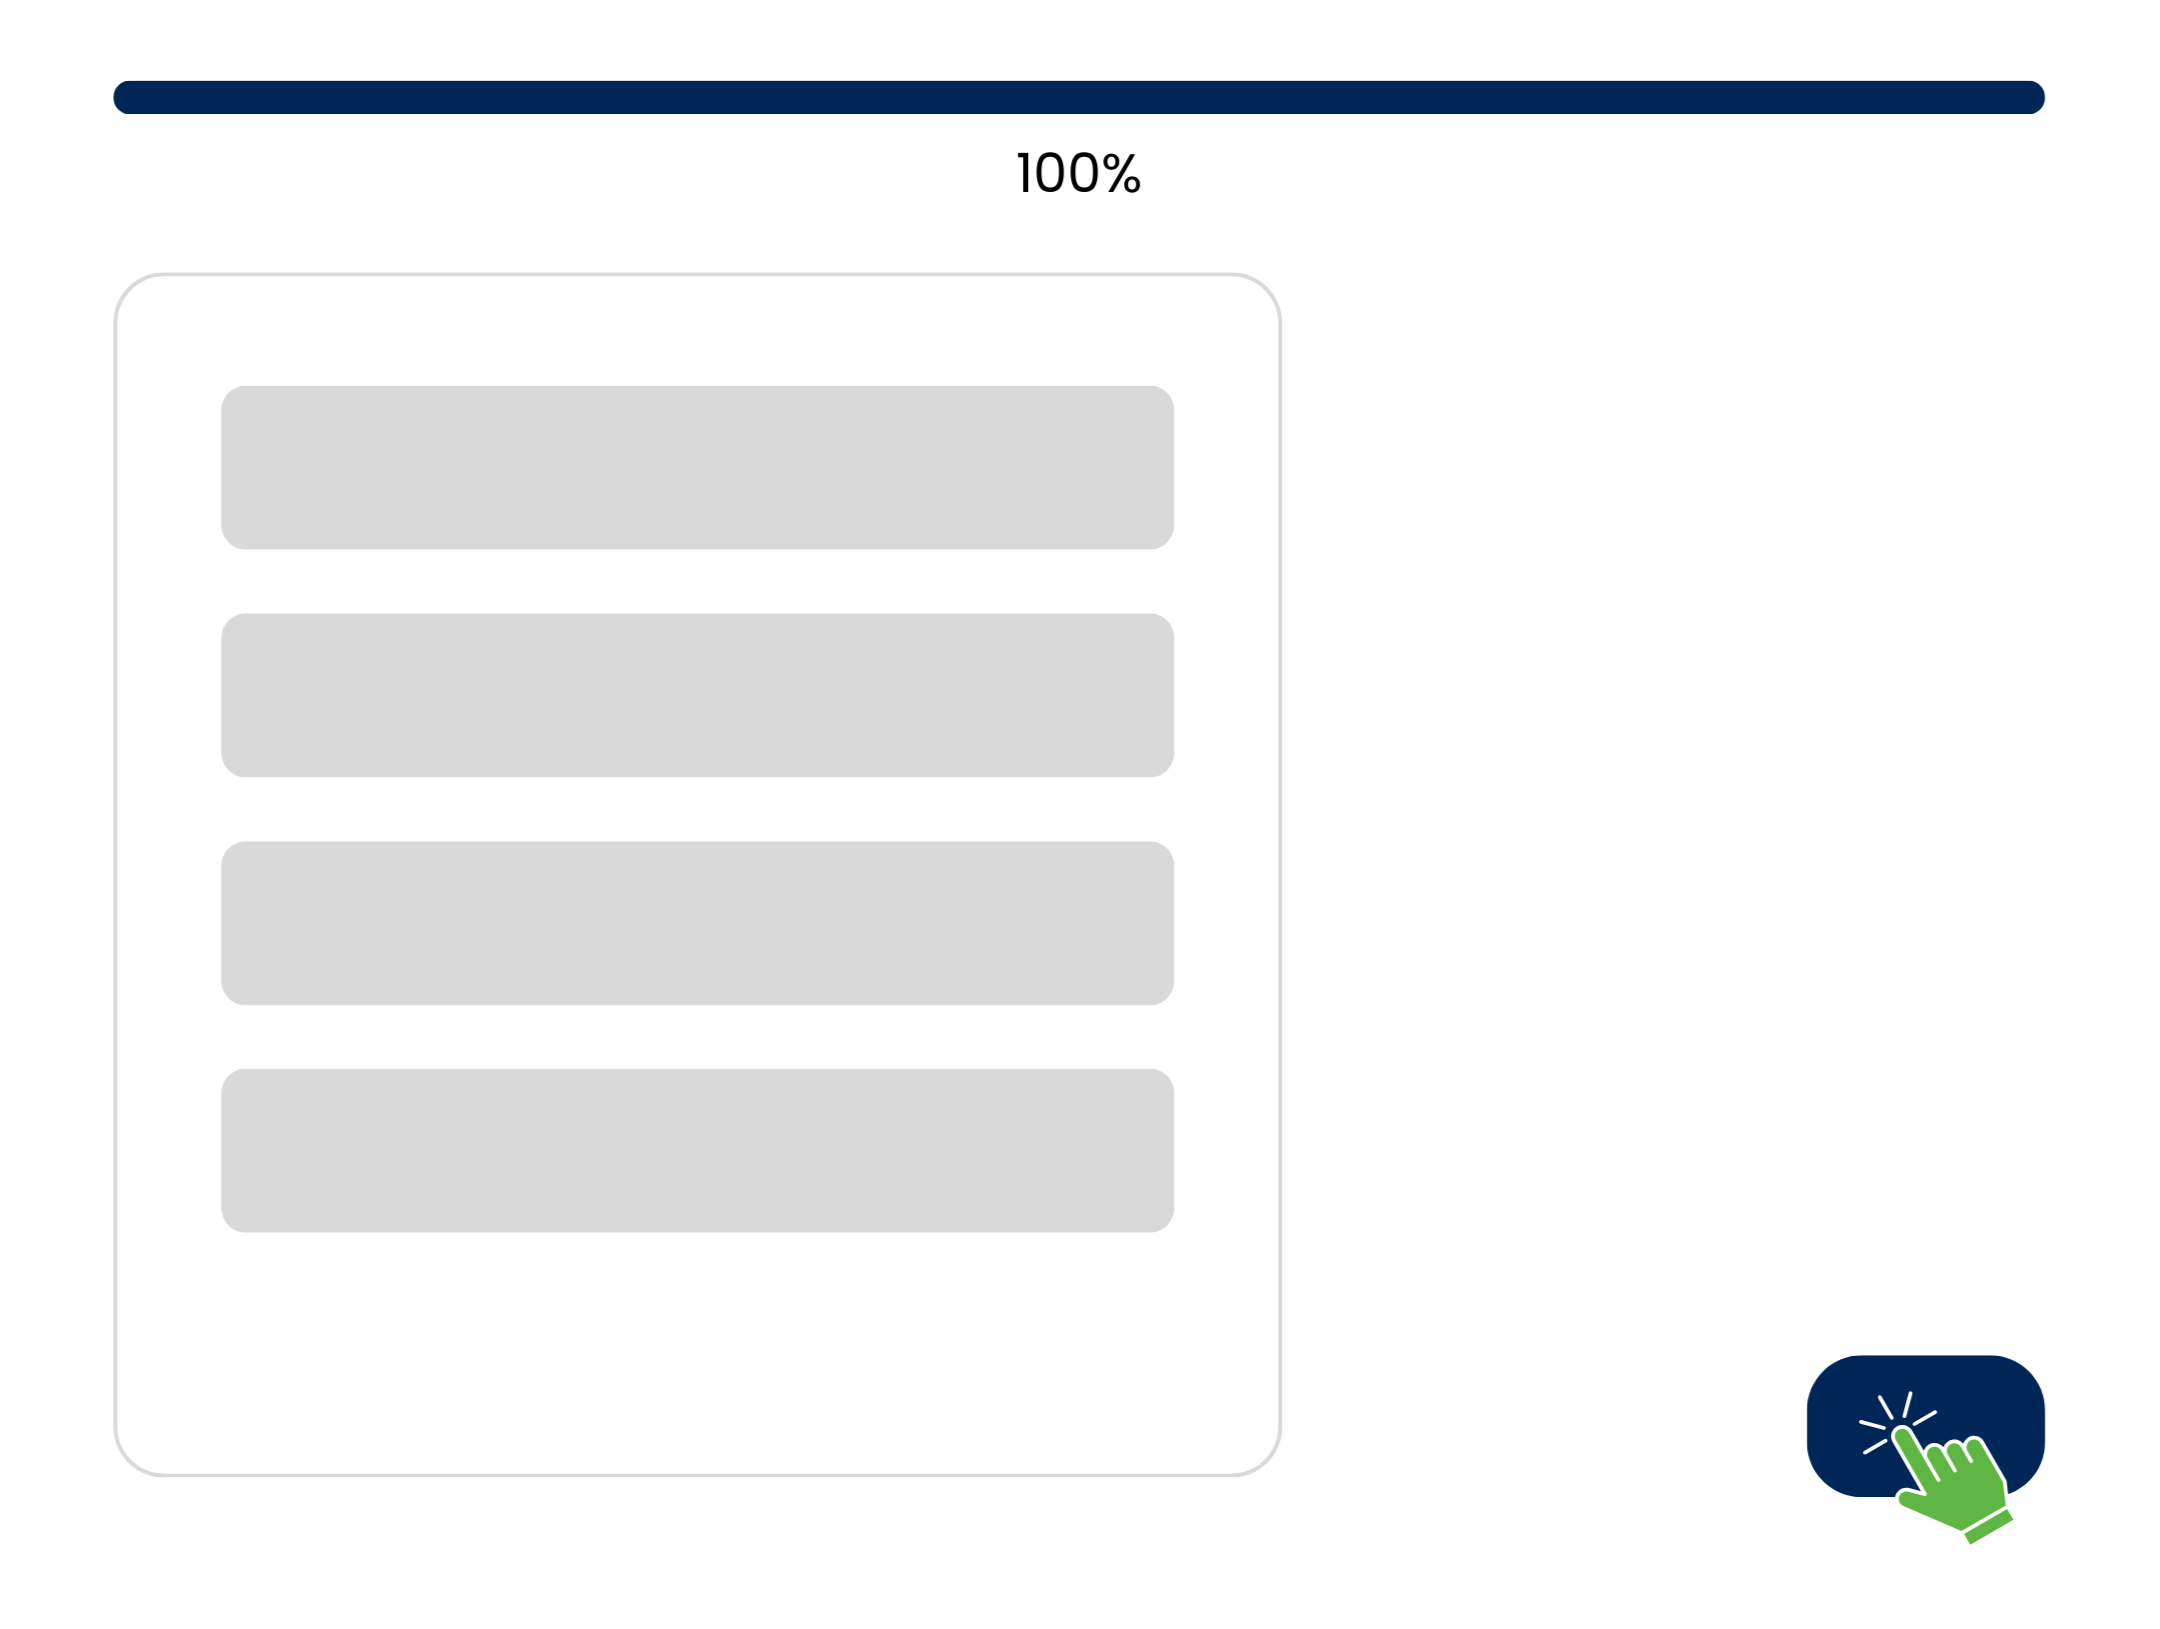
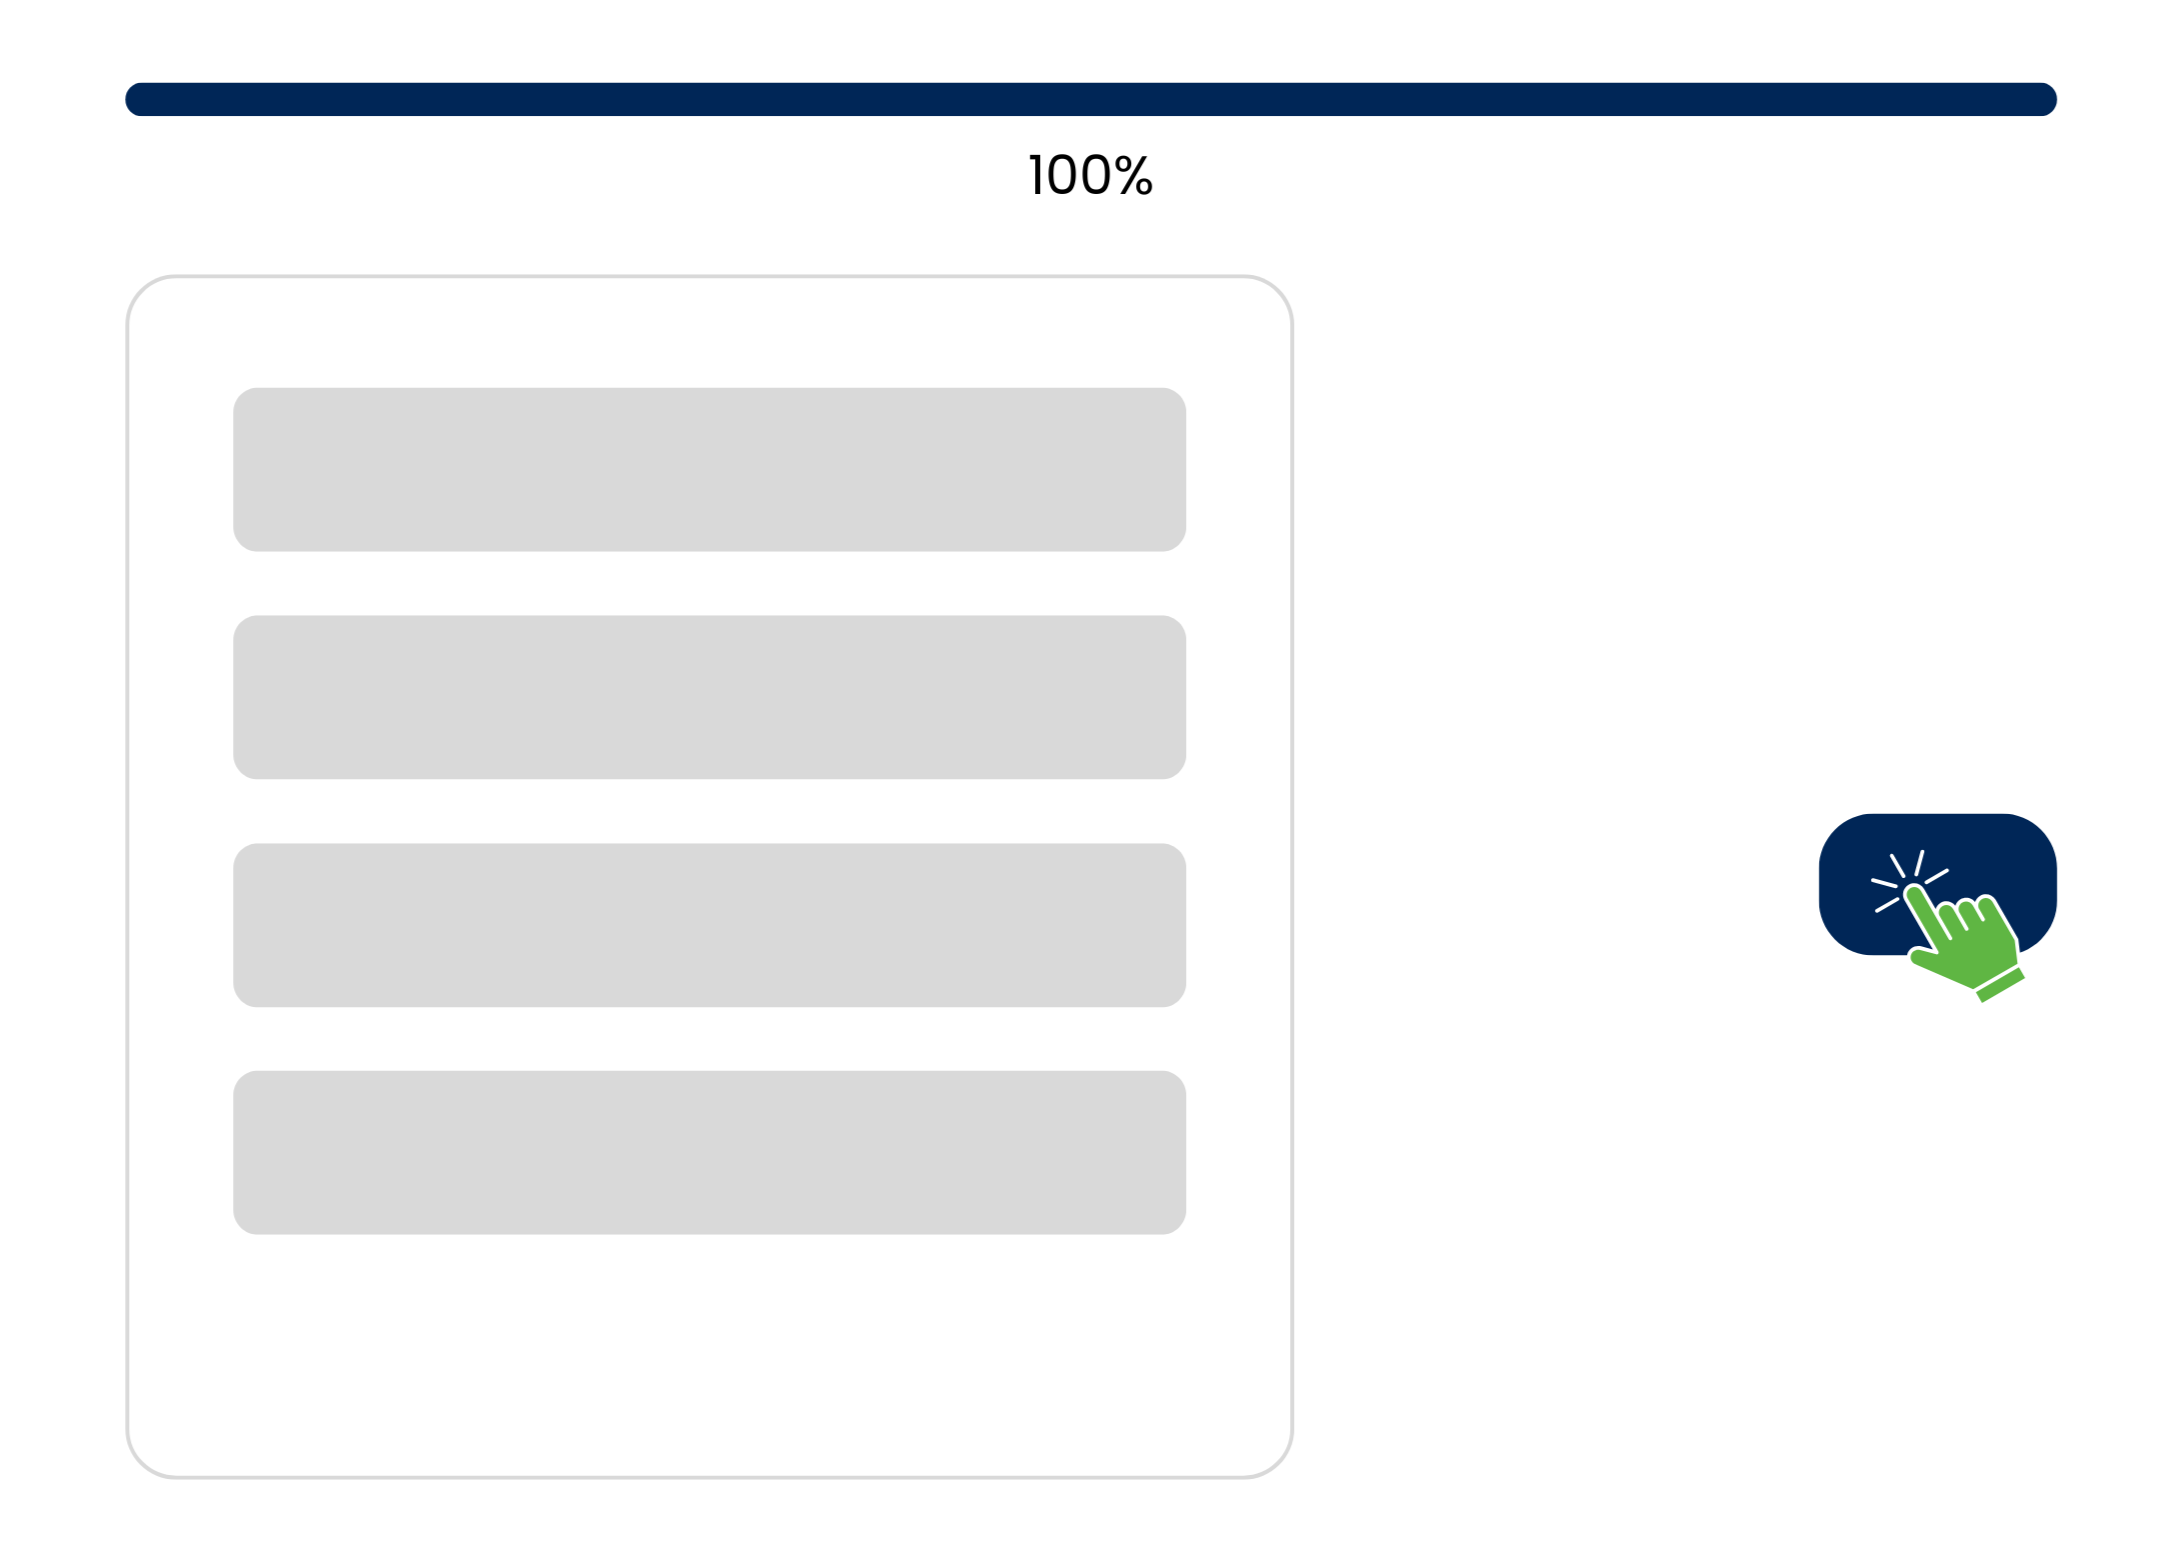
small changes

diff --git a/public/index.html b/public/index.html
@@ -5,7 +5,7 @@
     <meta charset="UTF-8">
     <meta name="viewport" content="width=device-width, initial-scale=1.0">
     <link rel="icon" type="image/x-icon" href="favicon.ico">
-    <title>Learn About Clinical Trials</title>
+    <title>Learn About Clinical Research</title>
     <link rel="preconnect" href="https://fonts.googleapis.com">
     <link rel="preconnect" href="https://fonts.gstatic.com" crossorigin>
     <link href="https://fonts.googleapis.com/css2?family=Lily+Script+One&family=Noto+Sans:ital,wght@0,100..900;1,100..900&family=Poppins:ital,wght@0,100;0,200;0,300;0,400;0,500;0,600;0,700;0,800;0,900;1,100;1,200;1,300;1,400;1,500;1,600;1,700;1,800;1,900&family=Space+Grotesk:wght@300..700&display=swap" rel="stylesheet">
@@ -18,8 +18,8 @@
         <div id="start">
             <span><h1>Alex&nbsp;</h1><h2>| Virtual Health Assistant</h2></span>
             <hr/>
-            <h3>Learn About Clinical Trials</h3>
-            <p id="intro">Welcome! You are about to start chatting with <b>Alex, a Virtual Health Assistant,</b> to learn about clinical trials. Before you begin, you will view some <b>instructions</b> on how to interact with Alex. Click the button below to begin!</p>
+            <h3>Learn About Clinical Research</h3>
+            <p id="intro">Welcome! You are about to start chatting with <b>Alex, a Virtual Health Assistant,</b> to learn about cancer clinical research. Before you begin, you will view some <b>instructions</b> on how to interact with Alex. Click the button below to begin!</p>
             <button class="default" id="instructions-btn">Continue</button>
             <div id="information">
                 <div class="loader" style="--n: 1; --f: 0;">Instructions:&nbsp;<span id="number">1/4</span></div>

diff --git a/public/js/start.js b/public/js/start.js
@@ -5,7 +5,7 @@ const instructions = [
     "Alex will respond with both text and audio, so <b>make sure your sound is on</b>!",
     "You can interact with Alex using by <b>clicking buttons</b> or by <b>typing</b>.",
     "Note that Alex may use AI to respond to you, so <b>responses can take up to 10 seconds</b>.",
-    "Alex will walk you through a few topics. When <b>finished</b>, a button will appear in the <b>bottom right corner</b> which you can click to continue."
+    "Alex will walk you through a few topics. When <b>finished</b>, a button will appear in the <b>right middle side of your screen</b> which you can click to continue."
 ]
 
 document.addEventListener('DOMContentLoaded', (event) => {  
